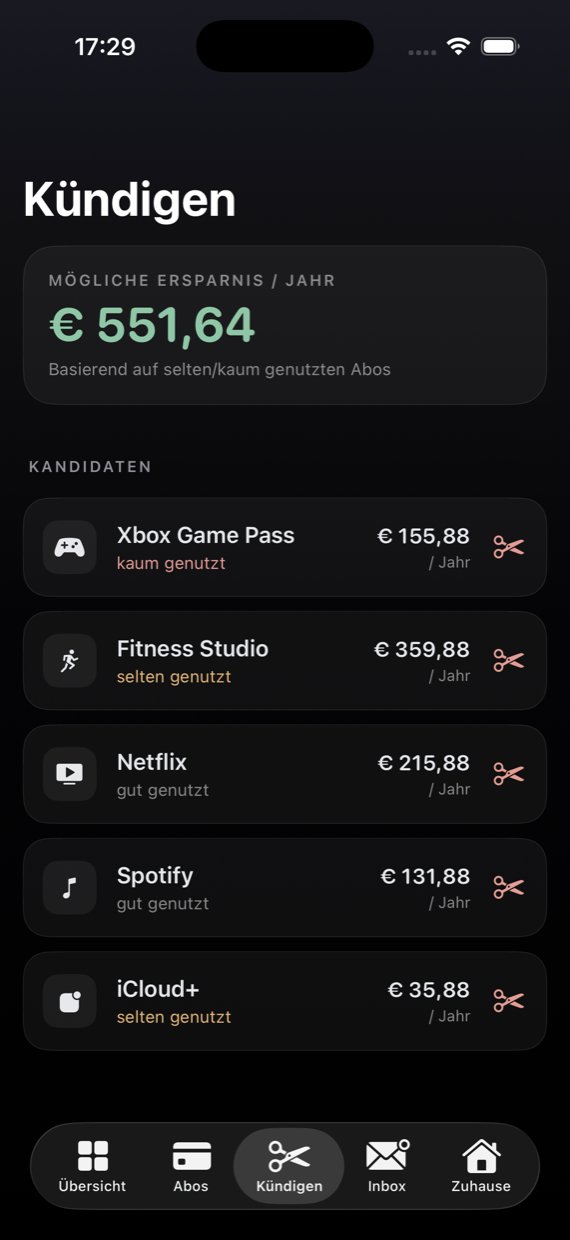
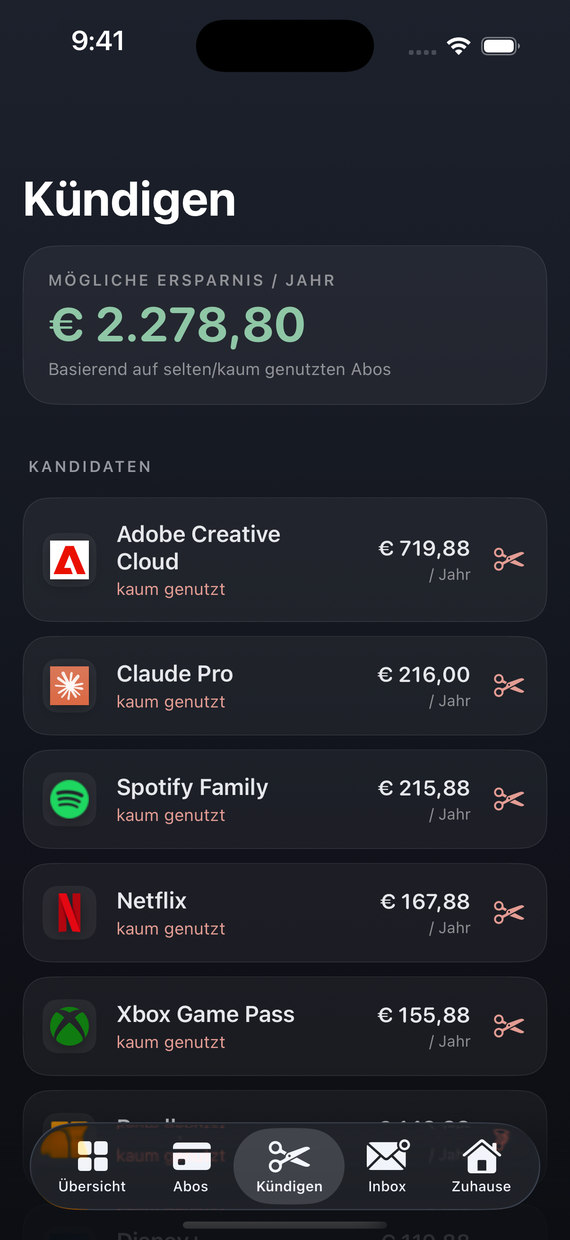
Add language-specific screenshots (DE/EN) with unified 9:41 clock
Real German + English app screenshots (uebersicht, abos, inbox, kuendigen,
zuhause) with -en variants; status-bar time normalised to 9:41 across all.
Images swap with the language toggle via data-shot + fallback to DE.

diff --git a/index.html b/index.html
@@ -276,7 +276,7 @@
               <div class="iphone">
                 <div class="iphone-screen aspect-[9/19.5]">
                   <!-- Echter App-Screenshot: Übersicht / Dashboard -->
-                  <img src="screens/uebersicht.png" width="570" height="1240" fetchpriority="high"
+                  <img src="screens/uebersicht.png" data-shot="uebersicht" width="570" height="1240" fetchpriority="high"
                        alt="Blade App – Übersicht mit Abo-Gesundheit, Monatskosten und anstehenden Zahlungen"
                        class="w-full h-full object-cover" />
                 </div>
@@ -340,7 +340,7 @@
             <div class="w-[240px] sm:w-[264px]">
               <div class="iphone">
                 <div class="iphone-screen aspect-[9/19.5]">
-                  <img src="screens/abos.png" width="570" height="1240" loading="lazy"
+                  <img src="screens/abos.png" data-shot="abos" width="570" height="1240" loading="lazy"
                        alt="Blade App – Abo-Liste mit KI-Tiefenscan-Empfehlung und aktiven Abos"
                        class="w-full h-full object-cover" />
                 </div>
@@ -355,7 +355,7 @@
             <div class="w-[240px] sm:w-[264px]">
               <div class="iphone">
                 <div class="iphone-screen aspect-[9/19.5]">
-                  <img src="screens/inbox.png" width="570" height="1240" loading="lazy"
+                  <img src="screens/inbox.png" data-shot="inbox" width="570" height="1240" loading="lazy"
                        alt="Blade App – Inbox Slayer mit erkannten Newslettern nach Kategorie"
                        class="w-full h-full object-cover" />
                 </div>
@@ -403,7 +403,7 @@
             <div class="w-[240px] sm:w-[264px]">
               <div class="iphone">
                 <div class="iphone-screen aspect-[9/19.5]">
-                  <img src="screens/kuendigen.png" width="570" height="1240" loading="lazy"
+                  <img src="screens/kuendigen.png" data-shot="kuendigen" width="570" height="1240" loading="lazy"
                        alt="Blade App – Kündigen mit möglicher Jahresersparnis und Kündigungskandidaten"
                        class="w-full h-full object-cover" />
                 </div>
@@ -436,7 +436,7 @@
             <div class="w-[240px] sm:w-[264px]">
               <div class="iphone">
                 <div class="iphone-screen aspect-[9/19.5]">
-                  <img src="screens/uebersicht.png" width="570" height="1240" loading="lazy"
+                  <img src="screens/uebersicht.png" data-shot="uebersicht" width="570" height="1240" loading="lazy"
                        alt="Blade App – Übersicht mit Abo-Gesundheit, Monatskosten und Kategorien"
                        class="w-full h-full object-cover" />
                 </div>
@@ -451,7 +451,7 @@
             <div class="w-[240px] sm:w-[264px]">
               <div class="iphone">
                 <div class="iphone-screen aspect-[9/19.5]">
-                  <img src="screens/zuhause.png" width="570" height="1240" loading="lazy"
+                  <img src="screens/zuhause.png" data-shot="zuhause" width="570" height="1240" loading="lazy"
                        alt="Blade App – Zuhause mit gemeinsamem Haushalt, Mitgliedern und Einladungscode"
                        class="w-full h-full object-cover" />
                 </div>
@@ -567,7 +567,7 @@
           <div class="reveal flex flex-col items-center">
             <div class="w-[220px] sm:w-[240px]">
               <div class="iphone"><div class="iphone-screen aspect-[9/19.5]">
-                <img src="screens/uebersicht.png" data-shot="dashboard" width="570" height="1240" loading="lazy" alt="Blade – Dashboard" class="w-full h-full object-cover" />
+                <img src="screens/uebersicht.png" data-shot="uebersicht" width="570" height="1240" loading="lazy" alt="Blade – Dashboard" class="w-full h-full object-cover" />
               </div></div>
             </div>
             <p class="mt-4 text-sm font-semibold text-white" data-i18n="gallery.c1">Dashboard</p>
@@ -575,7 +575,7 @@
           <div class="reveal flex flex-col items-center">
             <div class="w-[220px] sm:w-[240px]">
               <div class="iphone"><div class="iphone-screen aspect-[9/19.5]">
-                <img src="screens/abos.png" data-shot="tiefenscan" width="570" height="1240" loading="lazy" alt="Blade – KI-Tiefenscan" class="w-full h-full object-cover" />
+                <img src="screens/abos.png" data-shot="abos" width="570" height="1240" loading="lazy" alt="Blade – KI-Tiefenscan" class="w-full h-full object-cover" />
               </div></div>
             </div>
             <p class="mt-4 text-sm font-semibold text-white" data-i18n="gallery.c2">KI-Tiefenscan</p>

diff --git a/script.js b/script.js
@@ -212,6 +212,15 @@
       }
     });
     document.documentElement.lang = lang;
+    // Sprachabhängige Screenshots (data-shot): DE = <name>.png, EN = <name>-en.png
+    document.querySelectorAll('[data-shot]').forEach(function (img) {
+      var base = img.getAttribute('data-shot');
+      var src = 'screens/' + base + (lang === 'en' ? '-en' : '') + '.png';
+      if (img.getAttribute('src') !== src) {
+        img.onerror = function () { img.onerror = null; img.src = 'screens/' + base + '.png'; };
+        img.setAttribute('src', src);
+      }
+    });
     // Button-States
     document.querySelectorAll('.lang-btn').forEach(function (btn) {
       var active = btn.getAttribute('data-lang') === lang;
